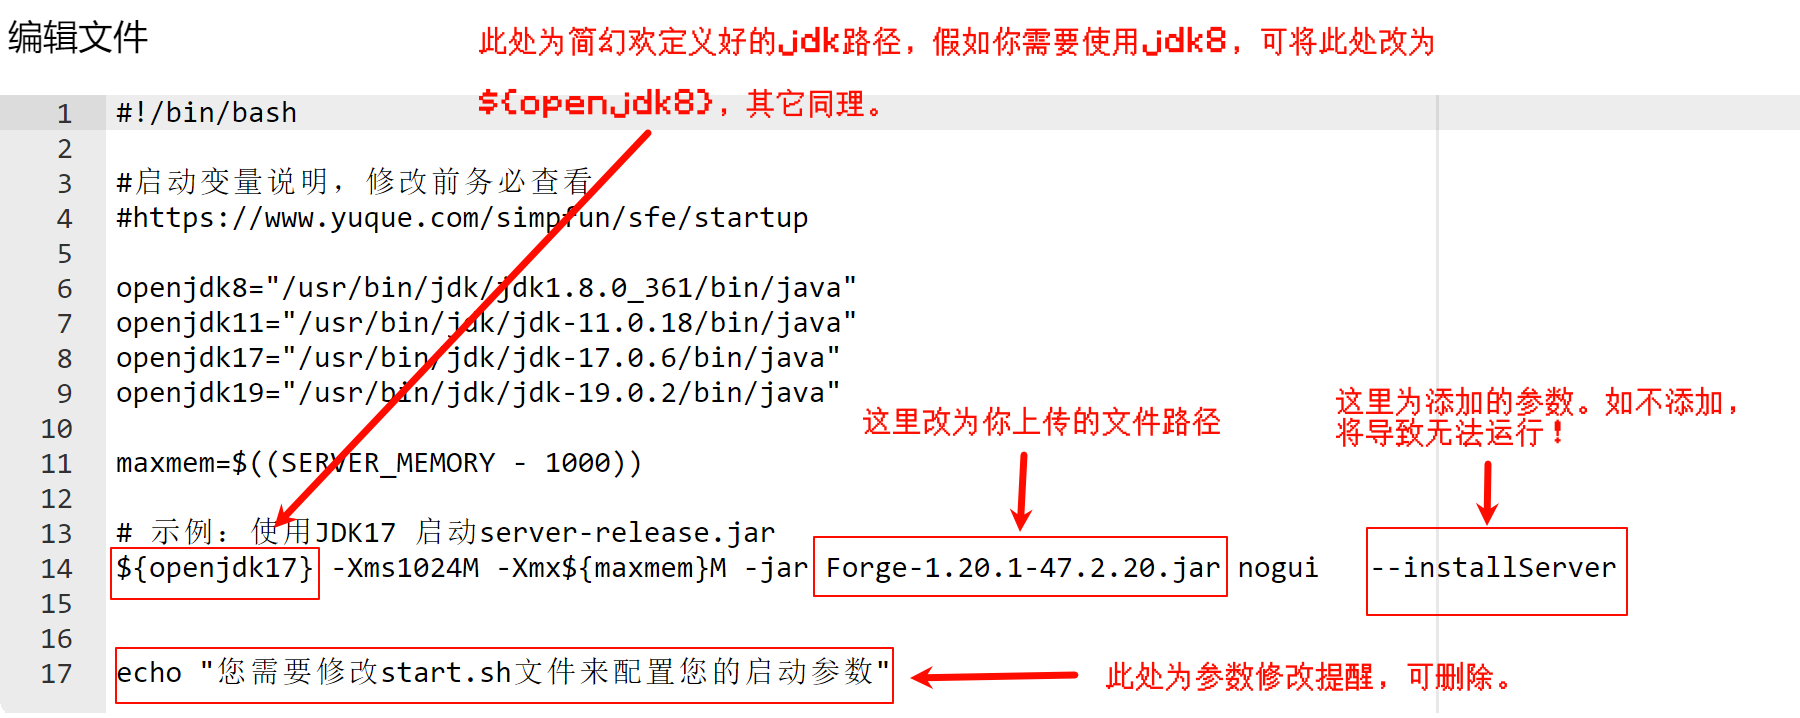
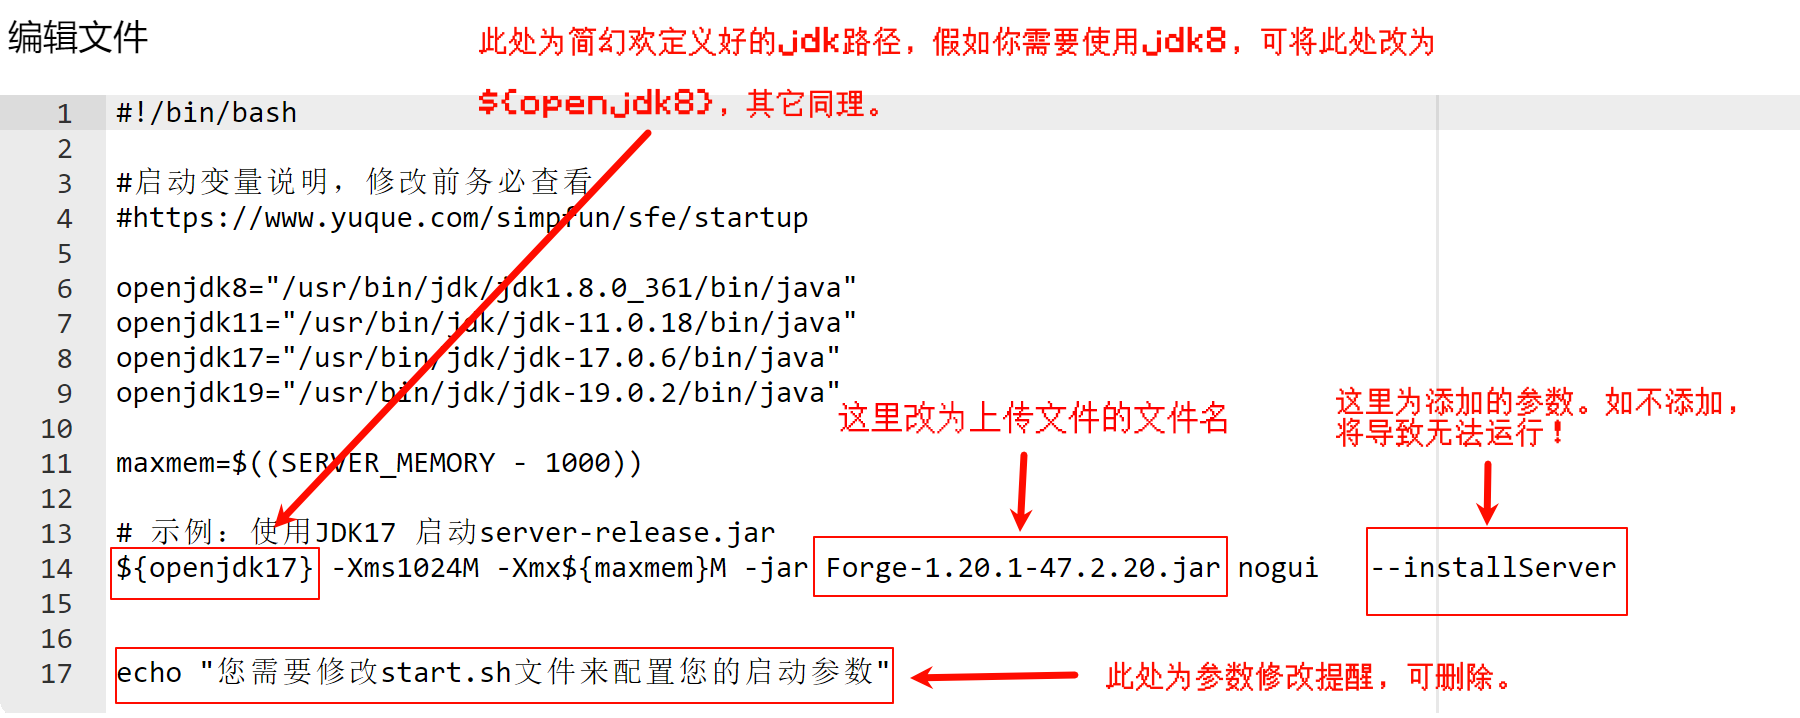
♥ 新增 使用自定义的java
♥ 新增 使用自定义的java

Changed region(s): [[0.4667, 0.5515, 0.6844, 0.6128]]

diff --git a/docs/mcje/210-addownjava.md b/docs/mcje/210-addownjava.md
@@ -1,0 +1,35 @@
+---
+title: 在简幻欢使用自定义的java
+---
+   
+:::info
+   
+众所周知，简幻欢提供了一些常用的java供用户使用，但总有人**有一些特殊需求**。那么，本文将教你如何在简幻欢使用自定义的java。
+     
+:::
+
+## 上传，解压java
+   
+> - [新建](../10-createserver.md)或[重装](../15-reinstall.md)一个为自定义-Java镜像
+>      
+>    
+> - 从[zulu](https://www.azul.com/downloads/)或[华为镜像源](https://repo.huaweicloud.com/java/jdk/)下载需要使用的java **压缩包**
+>:::info
+>
+> - 务必选择正确的java，不要选择arm和32位的java。    
+> - 不要在使用Linux镜像的实例中上传Windows版java，反之同理！
+>     
+>:::
+> - [上传](../11-upload.md)并解压下载好的java
+>![上传文件](/img/pages/MCJE-210-addownjava-1.png)
+>![解压文件](/img/pages/MCJE-210-addownjava-2.png)
+      
+## 获取解压后的java路径，编辑启动参数
+    
+> - 根据图示，寻找到解压后的java文件。如图中当前java文件在 `/zulu21.30.15ca-jre21.0.1-linux_x64/bin` 中，则你的java路径为 `/zulu21.30.15ca-jre21.0.1-linux_x64/bin/java` ，Windows同理。
+>![寻找路径](/img/pages/MCJE-210-addownjava-3.png)
+>编辑你的 `start.sh` ，修改启动参数，如图示：
+>![修改参数](/img/pages/MCJE-210-addownjava-4.png)
+
+**一切准备妥当后，启动服务器即完成操作！**
+![enjoy!](/img/pages/MCJE-210-addownjava-5.png)
